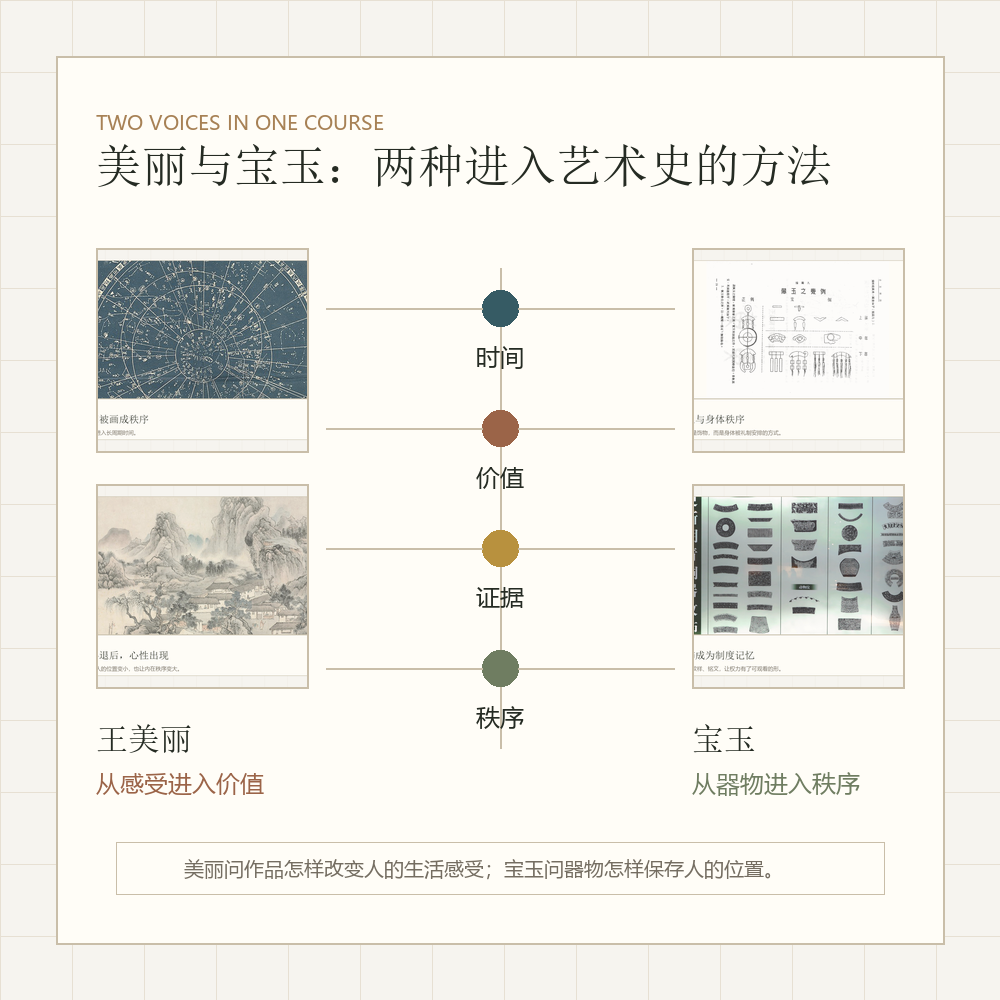
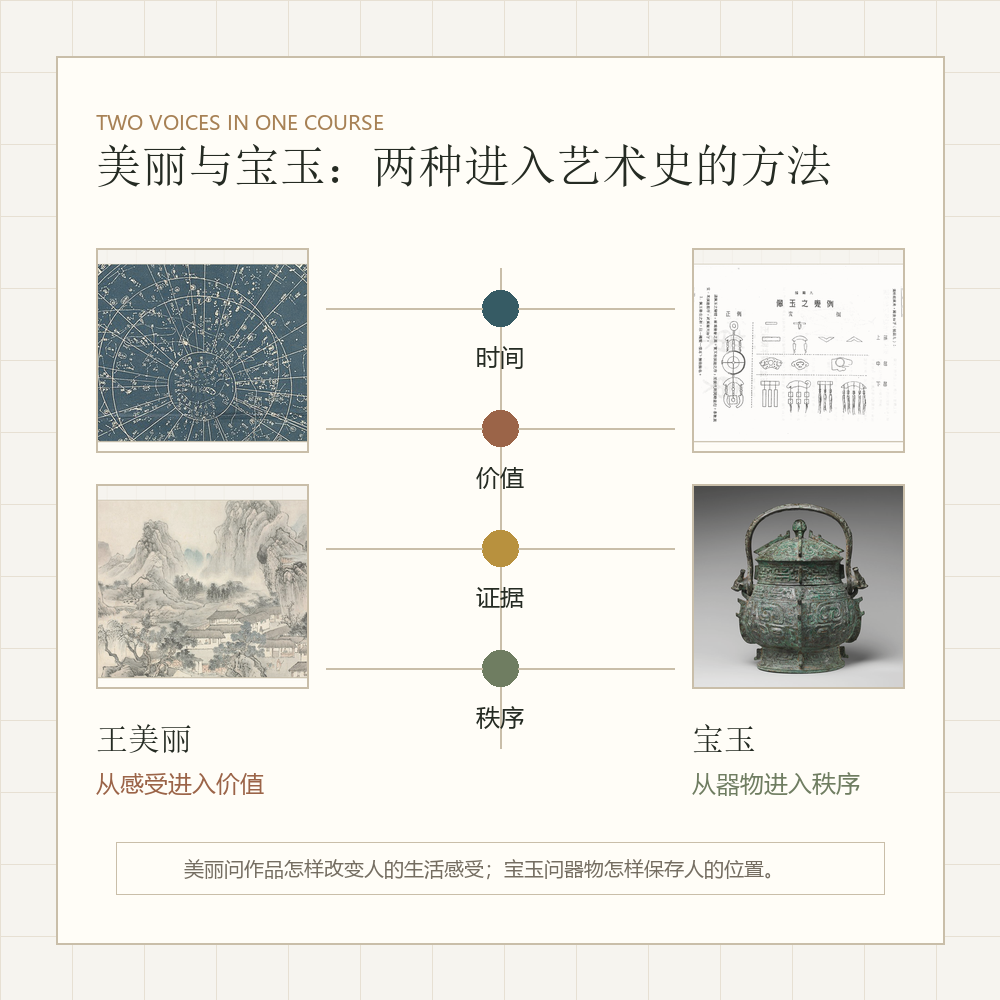
Refine C1 art history bronze visuals

Changed region(s): [[0.682, 0.279, 0.93, 0.713], [0.093, 0.248, 0.31, 0.465], [0.093, 0.496, 0.31, 0.682]]

diff --git a/02_Projects/Chinese_Art_History_C1/index.html b/02_Projects/Chinese_Art_History_C1/index.html
@@ -427,17 +427,17 @@
   <main class="shell">
     <section class="hero">
       <figure class="hero-visual">
-        <img src="images/visual-atlas-hero.png" alt="纸上中洲中国艺术史 C1.0 课程图像总图">
+        <img src="images/visual-atlas-hero.png" alt="纸上中洲中国艺术史 C1.0 图像档案">
       </figure>
       <div class="hero-note">
         <div>
           <span class="kicker">Project Dossier</span>
           <h1>纸上中洲</h1>
-          <p class="hero-copy">这不是一份普通课后记录，而是 KART 中国艺术史 C1.0 的课程展陈：十课图像、两位发问者、一场阶段测验。</p>
+          <p class="hero-copy">这不是一份普通课后记录，而是 KART 中国艺术史 C1.0 的课程展陈：图像档案、两位发问者、一场阶段测验。</p>
         </div>
         <div class="fact-grid" aria-label="Project facts">
           <div><span class="kicker">Images</span><strong>8 组图版</strong></div>
-          <div><span class="kicker">Lessons</span><strong>10 课</strong></div>
+          <div><span class="kicker">Stage</span><strong>C1.0</strong></div>
           <div><span class="kicker">Voices</span><strong>美丽 / 宝玉</strong></div>
           <div><span class="kicker">Game</span><strong>阶段测验</strong></div>
         </div>
@@ -463,7 +463,7 @@
         </figure>
         <figure class="plate">
           <img loading="lazy" src="images/plate-bronze-vitrine.png" alt="青铜纹饰课程图版">
-          <figcaption>纹饰成为制度记忆：器物开始说话。</figcaption>
+          <figcaption>青铜成为制度记忆：器物开始说话。</figcaption>
         </figure>
         <figure class="plate">
           <img loading="lazy" src="images/plate-chu-map.png" alt="楚地地图课程图版">
@@ -565,10 +565,10 @@
     <section class="section">
       <div class="section-head">
         <div>
-          <span class="section-eyebrow">Ten Rooms</span>
-          <h2>十课路径</h2>
+          <span class="section-eyebrow">C1.0 Rooms</span>
+          <h2>课程路径</h2>
         </div>
-        <p class="lead">明清合为第 10 课。阶段测验不是终局判断，而是这一阶段观看能力的回声。</p>
+        <p class="lead">明清合入 C1.0 的最后一间房。阶段测验不是终局判断，而是这一阶段观看能力的回声。</p>
       </div>
       <div class="room-grid">
         <article class="room"><span class="kicker">01</span><strong>方法</strong><p>档案室的门</p></article>

diff --git a/02_Projects/Chinese_Art_History_C1/game/index.html b/02_Projects/Chinese_Art_History_C1/game/index.html
@@ -779,7 +779,7 @@
   <div id="name-screen">
     <div class="name-box">
       <div class="name-deco"></div>
-      <div class="name-prompt">十课之后，档案室还亮着一盏灯。</div>
+      <div class="name-prompt">C1.0 之后，档案室还亮着一盏灯。</div>
       <div class="name-sub">留下名字，或匿名进入。美丽与宝玉会在途中回应你。</div>
       <input id="name-input" maxlength="20" autocomplete="off" spellcheck="false" placeholder="你的名字">
       <button class="tiny-btn" id="name-submit">进入档案</button>
@@ -1625,7 +1625,7 @@
         return {
           title: "阶段策展人",
           sub: "STAGE ARCHIVE / BALANCED",
-          desc: "主导判断：均衡策展。你在十课里同时调动生命处境、制度结构、证据链和异质想象。下一阶段可以把每个判断都配上一件更精确的图文证据。"
+          desc: "主导判断：均衡策展。你在 C1.0 中同时调动生命处境、制度结构、证据链和异质想象。下一阶段可以把每个判断都配上一件更精确的图文证据。"
         };
       }
       const endings = {
@@ -1787,7 +1787,7 @@
         ? `下一阶段训练：加强 ${quiet.map(item => item.label).join("、")}。${quiet.map(item => adviceMap[item.key]).join("")}`
         : "下一阶段训练：四条线没有明显短板，可以直接把每一课的选择配上更精确的图、文材料。";
       $("miss-list").innerHTML = `
-        <div class="record-title">ROUTE MAP / 十课路径</div>
+        <div class="record-title">ROUTE MAP / C1.0 路径</div>
         <ul class="route-list">${routeRows}</ul>
         <div style="margin-top:12px;color:#777">${escapeHtml(next)}</div>
       `;

diff --git a/02_Projects/Chinese_Art_History_C1/dossiers/index.html b/02_Projects/Chinese_Art_History_C1/dossiers/index.html
@@ -36,7 +36,7 @@
         </div>
         <div class="fact-grid">
           <div><span class="kicker">Students</span><strong>2 人</strong></div>
-          <div><span class="kicker">Lessons</span><strong>10 课</strong></div>
+          <div><span class="kicker">Stage</span><strong>C1.0</strong></div>
           <div><span class="kicker">Images</span><strong>课程图版</strong></div>
           <div><span class="kicker">Game</span><strong>阶段测验</strong></div>
         </div>
@@ -75,7 +75,7 @@
         </figure>
         <figure class="plate">
           <img src="../images/plate-bronze-vitrine.png" alt="青铜课程图版">
-          <figcaption>宝玉的秩序问题：器物如何保存制度记忆。</figcaption>
+          <figcaption>宝玉的秩序问题：青铜如何保存制度记忆。</figcaption>
         </figure>
         <figure class="plate">
           <img src="../images/plate-song-landscape.png" alt="山水课程图版">
@@ -90,7 +90,7 @@
           <span class="section-eyebrow">Game Posters</span>
           <h2>阶段测验界面</h2>
         </div>
-        <p class="lead">暗室、路径和雷达成为三张阶段测验图版：它们记录的不是分数，而是两种观看方式在十课之后怎样发生分化。</p>
+        <p class="lead">暗室、路径和雷达成为三张阶段测验图版：它们记录的不是分数，而是两种观看方式在 C1.0 之后怎样发生分化。</p>
       </div>
       <div class="grid three">
         <figure class="plate">

diff --git a/02_Projects/Chinese_Art_History_C1/dossiers/bao-yu.html b/02_Projects/Chinese_Art_History_C1/dossiers/bao-yu.html
@@ -58,7 +58,7 @@
         </figure>
         <figure class="plate">
           <img src="../images/plate-bronze-vitrine.png" alt="青铜纹饰课程图版">
-          <figcaption>青铜：纹饰与铭文如何让权力可见。</figcaption>
+          <figcaption>青铜：器形与纹饰如何让权力可见。</figcaption>
         </figure>
         <figure class="plate">
           <img src="../images/plate-chu-map.png" alt="楚地地图课程图版">
